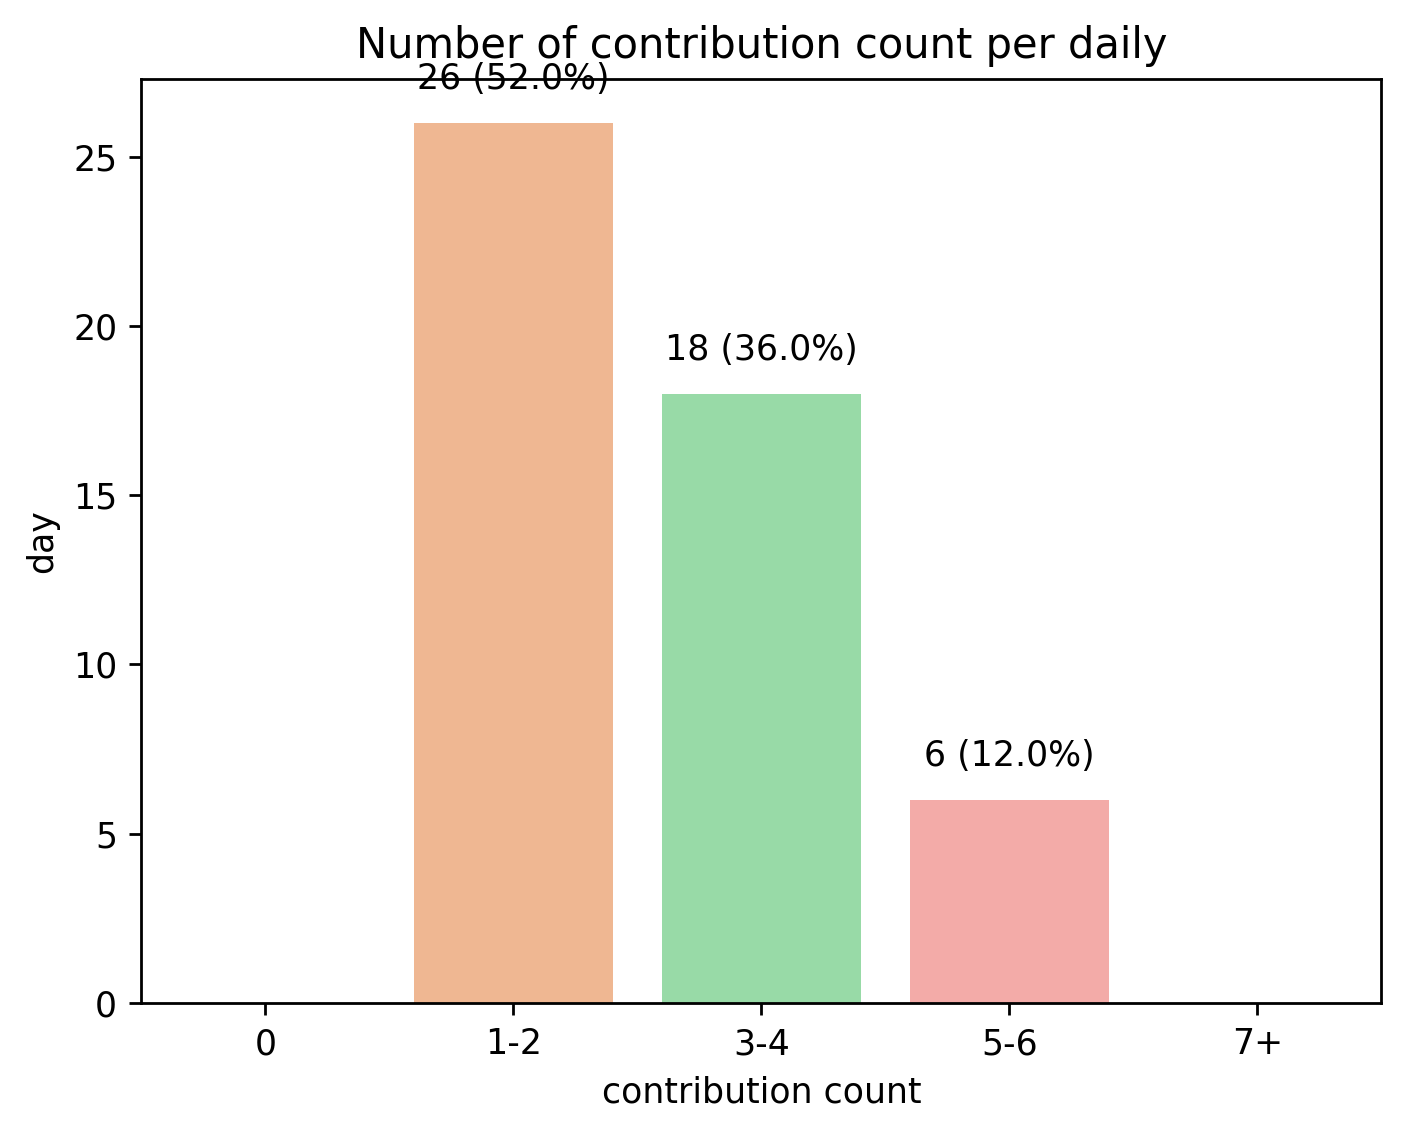
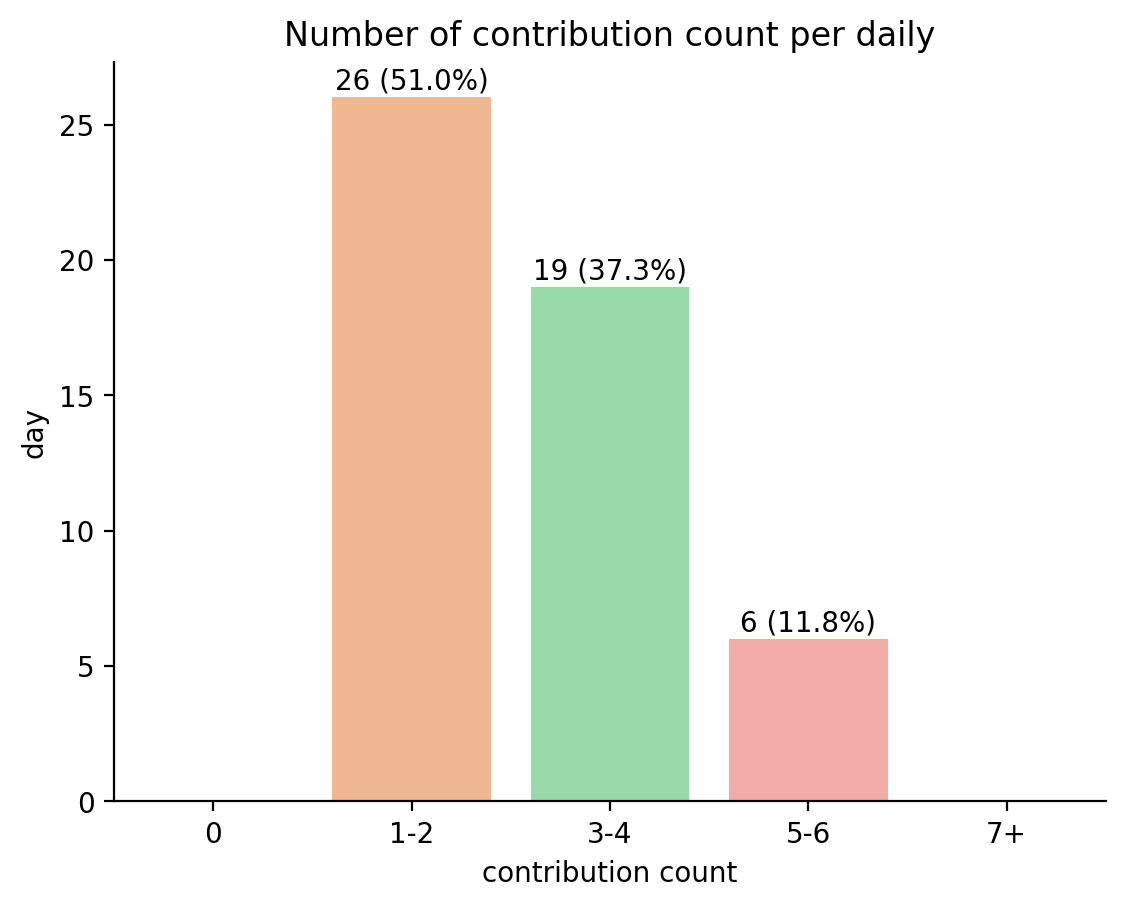
BOT: 2020-08-20 contribution check result

diff --git a/result/README.md b/result/README.md
@@ -1,20 +1,20 @@
 
 # Welcome to lntuition's Contribution Report
-This report is auto generated by [daily-contribution-checker](https://github.com/lntuition/daily-contribution-checker).
-If you have any question or problem, please report [here](https://github.com/lntuition/daily-contribution-checker/issues).
+This report is auto generated by [contribution-markdown-report](https://github.com/lntuition/contribution-markdown-report).
+If you have any question or problem, please report [here](https://github.com/lntuition/contribution-markdown-report/issues).
 I hope this report will be a companion for your contribution trip :airplane:
 
 ## Summary
-- **2020-08-19** is **50th day** since the start of trip :sweat_smile:
+- **2020-08-20** is **51th day** since the start of trip :sweat_smile:
 - There was **2** new contribution 
-at **2020-08-19**. Good job :+1:
-- During the trip, total contribution count is **127** and average contribution count 
-is **2.54**
+at **2020-08-20**. Good job :+1:
+- During the trip, total contribution count is **131** and average contribution count 
+is **2.57**
 - Daily maximum contribution day is **2020-07-16**, which is **5**.
-- Longest continous contribution trip was **50** days 
-From **2020-07-01** to **2020-08-19** :walking:
-- Current continous contribution trip is **50** days 
+- Longest continous contribution trip was **51** days 
+From **2020-07-01** to **2020-08-20** :walking:
+- Current continous contribution trip is **51** days 
 From **2020-07-01** :running:
 
 ## Graph
-<img src="asset/count_based_graph.png" width="75%">
+<img src="asset/count_based_graph.png" width="45%">
